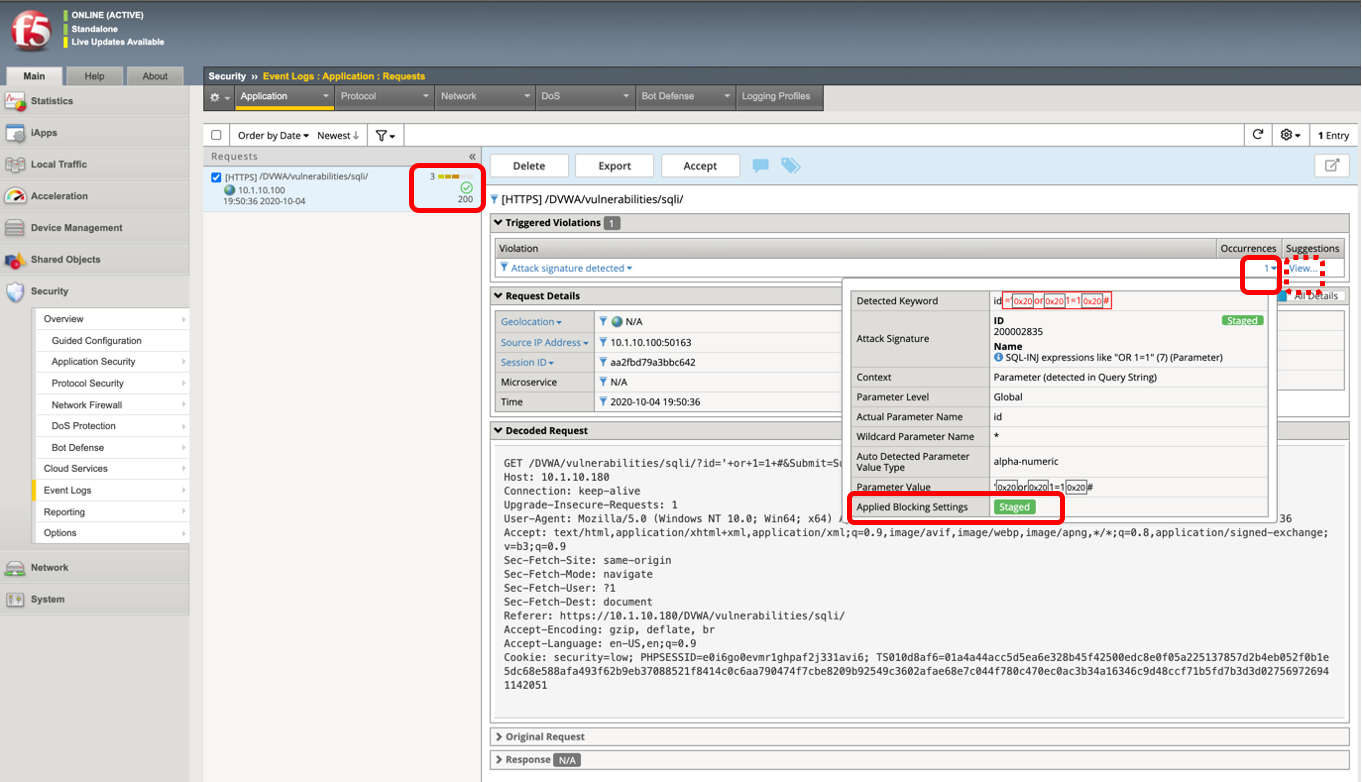
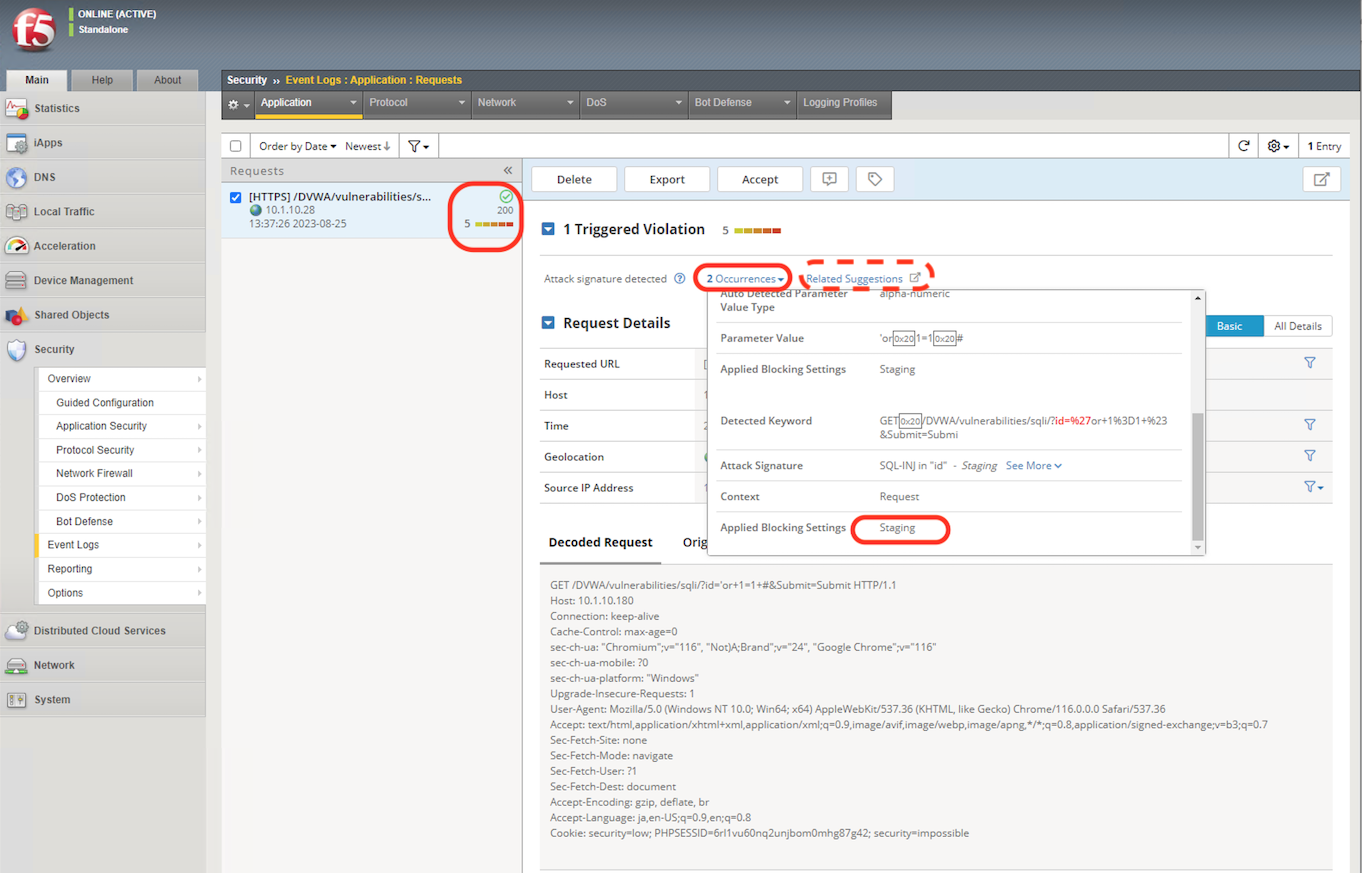
v17.1更新用

Changed region(s): [[0.0, 0.0, 1.0, 1.0], [0.9868, 0.0, 1.0, 0.0307]]

diff --git a/docs/content1/module07/module07.rst b/docs/content1/module07/module07.rst
@@ -3,7 +3,7 @@
 
 ステージングのログをEvent Logs に出力するための設定を行います。（必須ではありませんが、ステージング運用される場合には便利です。）
 
-#. **Security >> Event Logs : Logging Profiles** にて、:guilabel:`Create` ボタンを押します。任意の名前を設定し、**Application Security** のところで、**Enabled** をチェックし、**Request type** にて、**Illegal requests, and requests that include staged attack signatures ...** を選択し、:guilabel:`Create` ボタンを押します。
+#. **Security >> Event Logs : Logging Profiles** にて、:guilabel:`Create` ボタンを押します。任意の名前を設定し、**Application Security** のところで、**Enabled** をチェックし、**Request type** にて、**Illegal requests, and requests that include staged attack signatures or staged threat campaigns or Potential False Positive signature ...** を選択し、:guilabel:`Create` ボタンを押します。
 
    .. image:: images/mod7-1.png
    |  

diff --git a/docs/content1/module08/module08.rst b/docs/content1/module08/module08.rst
@@ -9,7 +9,7 @@
 
    .. image:: images/mod8-2.png
    |  
-#. 上記画面のSuggestionsの **View...** をクリックすると、TrafficLearningの画面でも **Attack signature detected** が確認できます。（ **Security >> Application Security : Policy Building : Traffic Learning** でもたどれます。）
+#. 上記画面のSuggestionsの **Related Suggestions** をクリックすると、TrafficLearningの画面でも **Attack signature detected** が確認できます。（ **Security >> Application Security : Policy Building : Traffic Learning** でもたどれます。）
 
    .. image:: images/mod8-3.png
    |  
